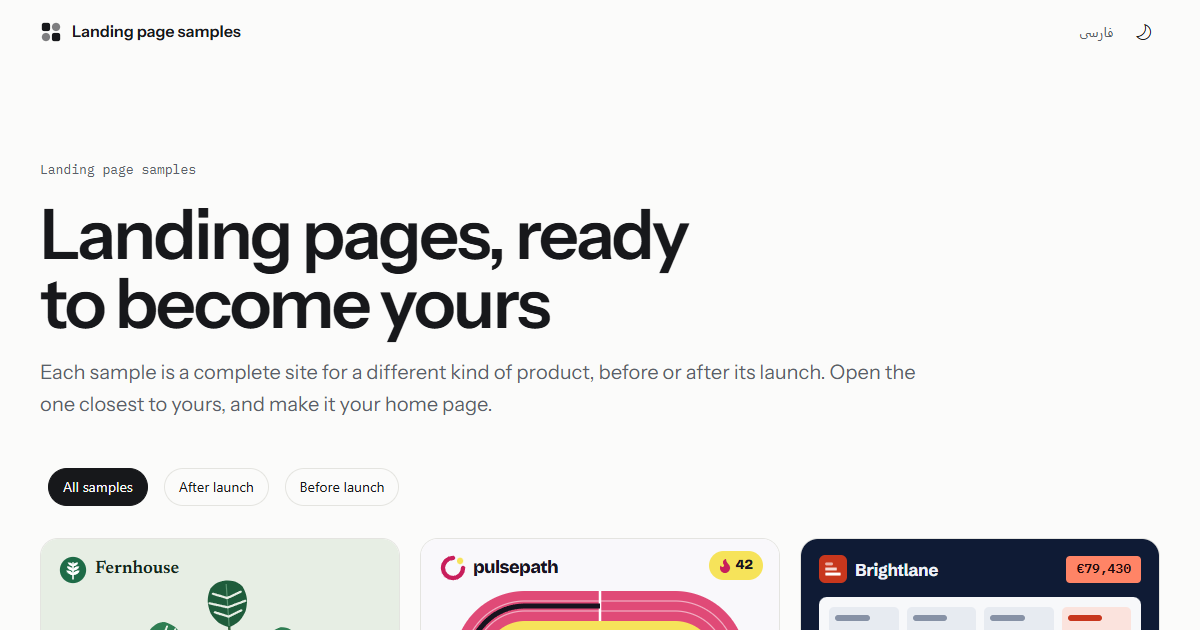
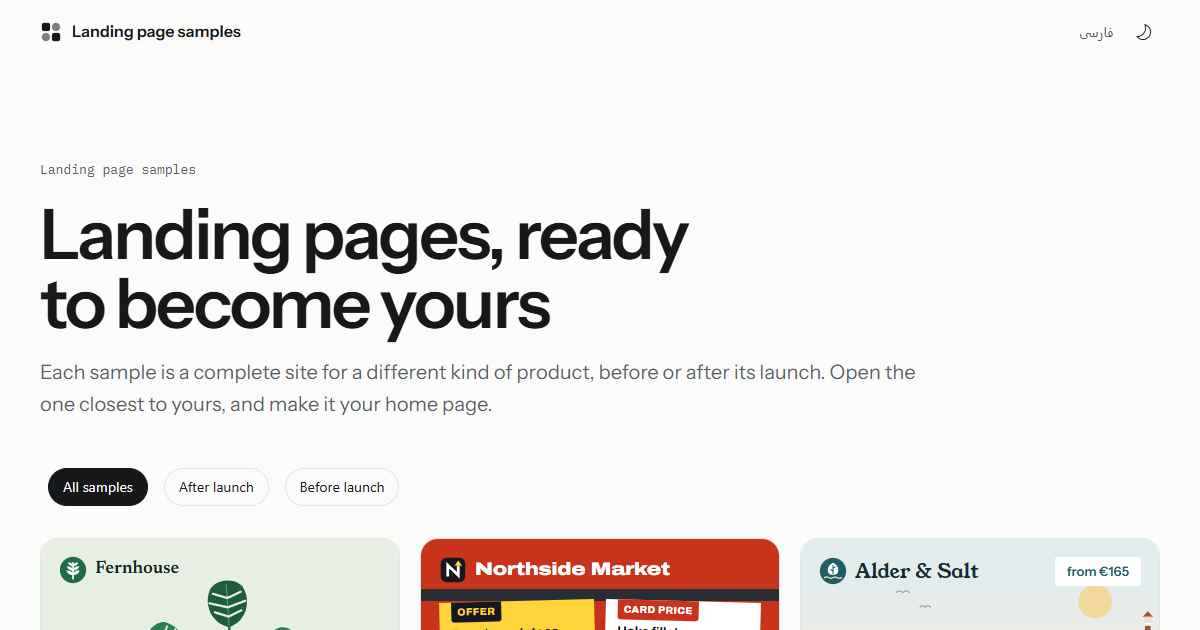
wip(templates): set Persian in Vazirmatn first, keep addresses readable in Persian, and give agent A's samples their preview images

Changed region(s): [[0.3392, 0.8444, 0.9867, 1.0]]

diff --git a/src/Templates/Boilerplate/Bit.Boilerplate/src/LandingPage/Boilerplate.LandingPage.Client/Styles/landing.scss b/src/Templates/Boilerplate/Bit.Boilerplate/src/LandingPage/Boilerplate.LandingPage.Client/Styles/landing.scss
@@ -23,8 +23,8 @@
 }
 
 :root:lang(fa) {
-    --lp-stack-body: "Vazirmatn FD Digits", var(--lp-font-body), "Vazirmatn", system-ui, sans-serif;
-    --lp-stack-display: "Vazirmatn FD Digits", var(--lp-font-display), "Vazirmatn", system-ui, sans-serif;
+    --lp-stack-body: "Vazirmatn FD Digits", "Vazirmatn", var(--lp-font-body), system-ui, sans-serif;
+    --lp-stack-display: "Vazirmatn FD Digits", "Vazirmatn", var(--lp-font-display), system-ui, sans-serif;
 }
 
 *,
@@ -195,3 +195,7 @@ h1:focus {
 @import 'sites/hotel';
 @import 'sites/restaurant';
 @import 'sites/period-tracker';
+
+:root:lang(fa) {
+    --lp-font-mono: var(--lp-stack-body);
+}

diff --git a/src/Templates/Boilerplate/Bit.Boilerplate/src/LandingPage/Boilerplate.LandingPage.Client/Styles/sites/_minimal.scss b/src/Templates/Boilerplate/Bit.Boilerplate/src/LandingPage/Boilerplate.LandingPage.Client/Styles/sites/_minimal.scss
@@ -5,12 +5,6 @@
     @include type((ui-sans-serif, system-ui, -apple-system, "Segoe UI", Roboto, "Helvetica Neue", Arial, sans-serif), (ui-sans-serif, system-ui, -apple-system, "Segoe UI", Roboto, "Helvetica Neue", Arial, sans-serif));
     @include shape(14px, 10px);
     @include palette(light, #141414, #FFFFFF, #FFFFFF, #F4F4F1, #FFFFFF, #141414, #56564F, #E3E3DD);
-
-    &:lang(fa) {
-        --lp-font-display: "Vazirmatn", system-ui, sans-serif;
-        --lp-font-body: "Vazirmatn", system-ui, sans-serif;
-        --lp-font-mono: var(--lp-stack-body);
-    }
 }
 
 @include site-dark(lp-minimal) {

diff --git a/src/Templates/Boilerplate/Bit.Boilerplate/src/LandingPage/Boilerplate.LandingPage.Client/Components/Pages/Retail/RetailLayout.razor.scss b/src/Templates/Boilerplate/Bit.Boilerplate/src/LandingPage/Boilerplate.LandingPage.Client/Components/Pages/Retail/RetailLayout.razor.scss
@@ -19,10 +19,3 @@
         display: none;
     }
 }
-
-@media (min-width: $breakpoint-sm) {
-    ::deep .retail-chat:not(:lang(fa)) {
-        right: 0;
-        bottom: auto;
-    }
-}

diff --git a/src/Templates/Boilerplate/Bit.Boilerplate/src/LandingPage/Boilerplate.LandingPage.Client/Components/Pages/Hotel/HotelLayout.razor.scss b/src/Templates/Boilerplate/Bit.Boilerplate/src/LandingPage/Boilerplate.LandingPage.Client/Components/Pages/Hotel/HotelLayout.razor.scss
@@ -10,10 +10,3 @@
         display: none;
     }
 }
-
-@media (min-width: $breakpoint-sm) {
-    ::deep .hotel-chat:not(:lang(fa)) {
-        right: 0;
-        bottom: auto;
-    }
-}

diff --git a/src/Templates/Boilerplate/Bit.Boilerplate/src/LandingPage/Boilerplate.LandingPage.Client/Components/Common/LegalPage.razor.scss b/src/Templates/Boilerplate/Bit.Boilerplate/src/LandingPage/Boilerplate.LandingPage.Client/Components/Common/LegalPage.razor.scss
@@ -61,6 +61,7 @@
     dd {
         margin: 0;
         font-weight: 500;
+        overflow-wrap: anywhere;
     }
 
     a {

diff --git a/src/Templates/Boilerplate/Bit.Boilerplate/src/LandingPage/Boilerplate.LandingPage.Client/Components/Pages/PeriodTracker/PeriodTrackerHomePage.razor.cs b/src/Templates/Boilerplate/Bit.Boilerplate/src/LandingPage/Boilerplate.LandingPage.Client/Components/Pages/PeriodTracker/PeriodTrackerHomePage.razor.cs
@@ -75,7 +75,7 @@ public partial class PeriodTrackerHomePage
         ];
 
         var site = PeriodTrackerSite.Info;
-        var url = NavigationManager.ToAbsoluteUri(LocalUrl(site.Path)).ToString();
+        var url = AbsoluteUrl(LocalUrl(site.Path));
 
         structuredData = new JsonObject
         {

diff --git a/src/Templates/Boilerplate/Bit.Boilerplate/src/LandingPage/Boilerplate.LandingPage.Client/Components/Pages/Restaurant/RestaurantHomePage.razor.cs b/src/Templates/Boilerplate/Bit.Boilerplate/src/LandingPage/Boilerplate.LandingPage.Client/Components/Pages/Restaurant/RestaurantHomePage.razor.cs
@@ -52,7 +52,7 @@ public partial class RestaurantHomePage
         ];
 
         var site = RestaurantSite.Info;
-        var url = NavigationManager.ToAbsoluteUri(LocalUrl(site.Path)).ToString();
+        var url = AbsoluteUrl(LocalUrl(site.Path));
 
         structuredData = new JsonObject
         {

diff --git a/src/Templates/Boilerplate/Bit.Boilerplate/src/LandingPage/Boilerplate.LandingPage.Client/Components/Pages/Retail/RetailHomePage.razor.cs b/src/Templates/Boilerplate/Bit.Boilerplate/src/LandingPage/Boilerplate.LandingPage.Client/Components/Pages/Retail/RetailHomePage.razor.cs
@@ -50,7 +50,7 @@ public partial class RetailHomePage
         ];
 
         var site = RetailSite.Info;
-        var url = NavigationManager.ToAbsoluteUri(LocalUrl(site.Path)).ToString();
+        var url = AbsoluteUrl(LocalUrl(site.Path));
 
         structuredData = new JsonObject
         {

diff --git a/src/Templates/Boilerplate/Bit.Boilerplate/src/LandingPage/Boilerplate.LandingPage.Client/Components/Pages/Hotel/HotelHomePage.razor.cs b/src/Templates/Boilerplate/Bit.Boilerplate/src/LandingPage/Boilerplate.LandingPage.Client/Components/Pages/Hotel/HotelHomePage.razor.cs
@@ -63,7 +63,7 @@ public partial class HotelHomePage
         ];
 
         var site = HotelSite.Info;
-        var url = NavigationManager.ToAbsoluteUri(LocalUrl(site.Path)).ToString();
+        var url = AbsoluteUrl(LocalUrl(site.Path));
 
         structuredData = new JsonObject
         {
